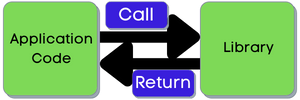
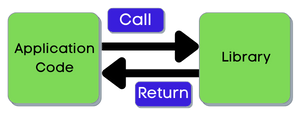
IOC updates

diff --git a/2.md b/2.md
@@ -1,11 +1,6 @@
 # Dependency Injection, Dependency Inversion, and the Inversion of Control
 
-## In one sentence...
-
-`Dependency Injection` is a design pattern we can implement, along with proper abstractions, to
-achieve `Dependency Inversion`. It is one specific implementation of `Inversion of Control`.
-
-## Unwrapping the Mess
+<h2 style="text-align: center;">Unwrapping the Mess</h2>
 
 In my experience, most developers first experience with DI in Java is often with one of the big IoC
 frameworks. These frameworks are really an amalgamation of several related techniques, principles,
@@ -92,11 +87,20 @@ challenge.
 
 <h2 style="text-align: center;">Inversion of Control. Don't call us, we'll call you...</h2>
 
-Inversion of Control is a design principle
+Inversion of Control is a design principle.
+
+Inversion of Control is the defining characteristic of a `Framework`, and what distinguishes it from
+a typical code `Library`. In a typical application, `Libraries` are used for their predefined
+functions/abstractions. The important thing is that the Application code *Calls* the Library code.
 
 <p align="center">
   <img src="src/main/resources/di/ioc1.png" alt="With Dependency Inversion">
 </p>
+
+Inversion of control is about reversing that, so that our *Framework* code calls the Application
+code. Since control obviously originates in the `main` method of our program, there is typically a
+very thin hand-off point at the very start of our program where control is forfeited/passed
+(*SpringApplication.run()...*)
 
 <p align="center">
   <img src="src/main/resources/di/ioc2.png" alt="With Dependency Inversion">
